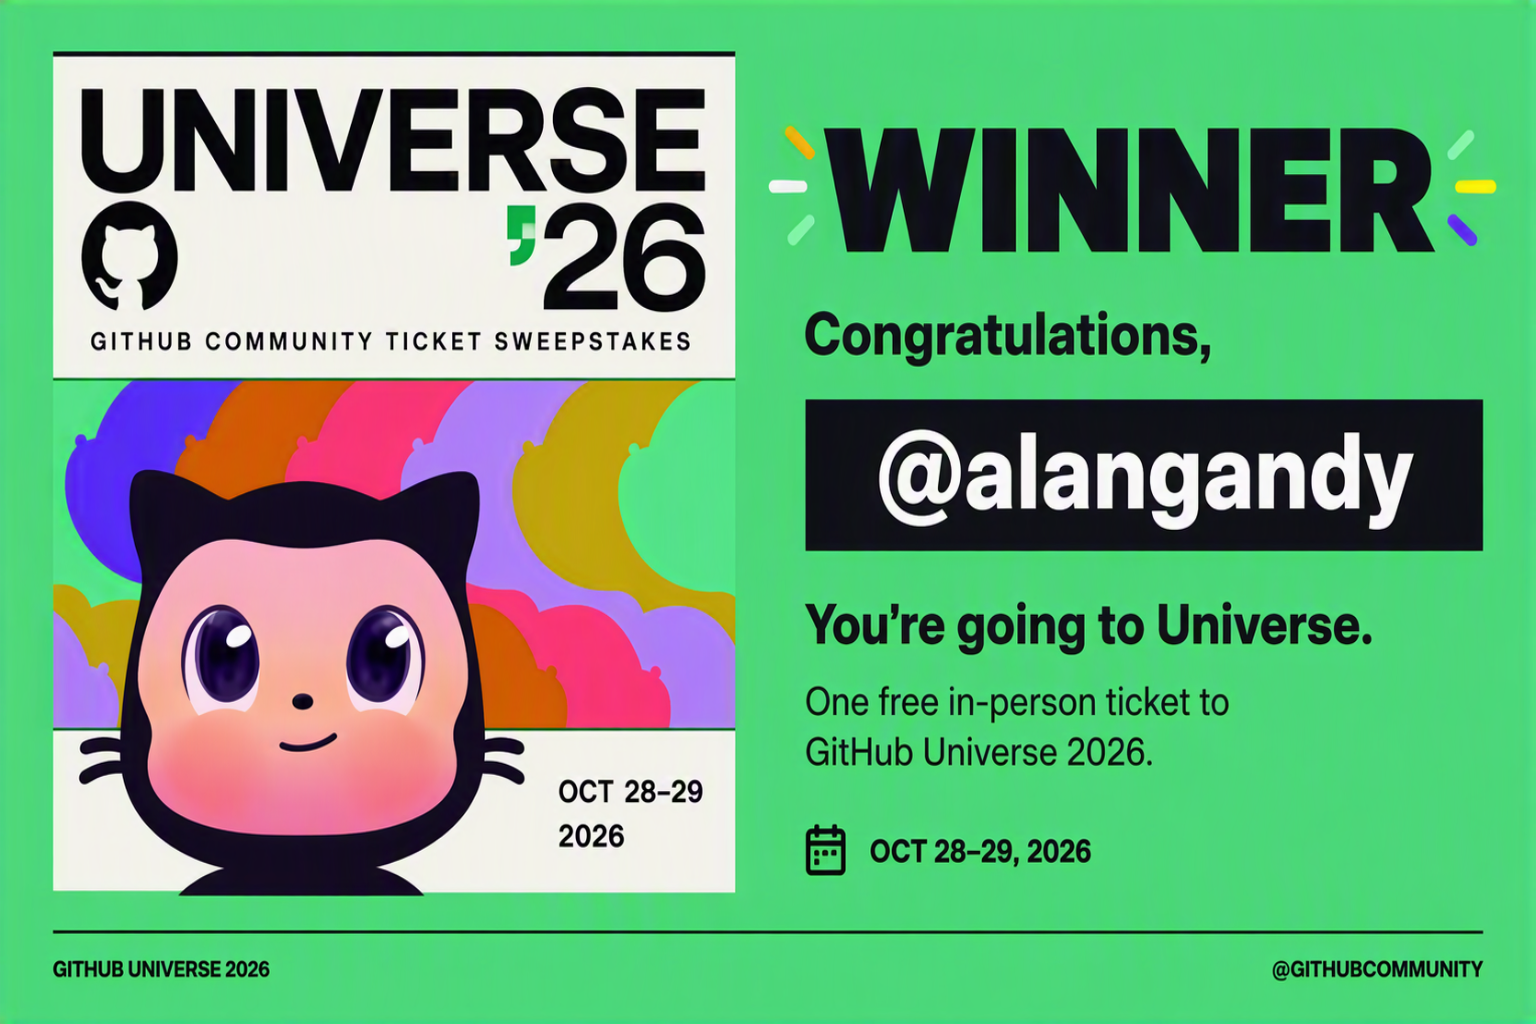
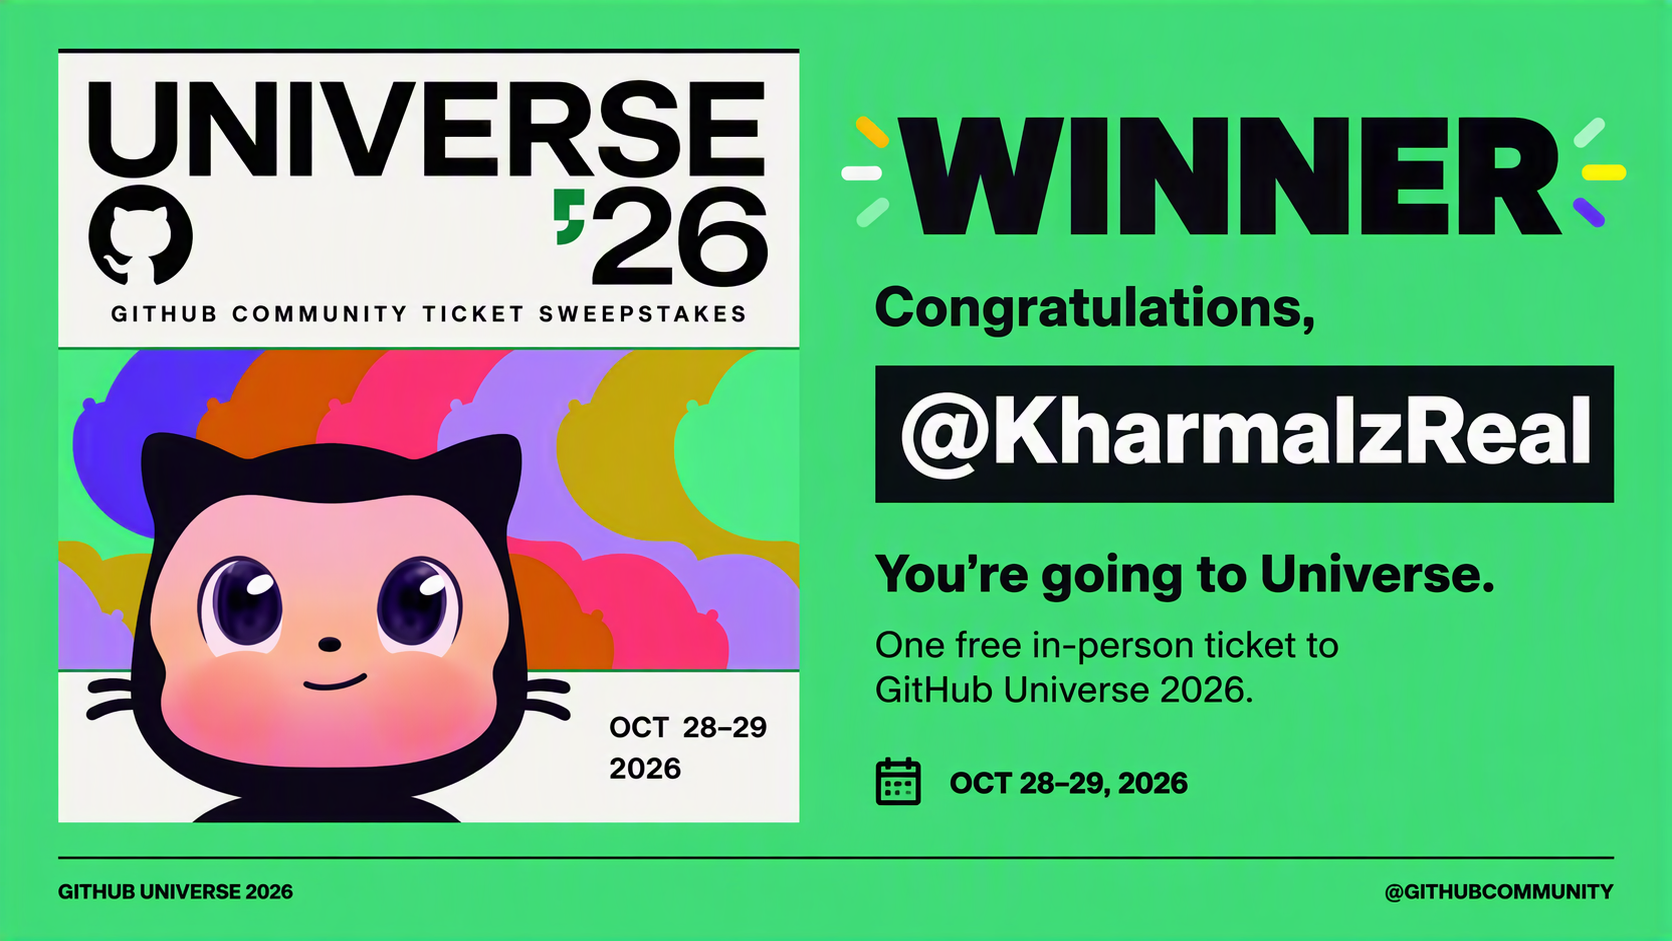
Update Universe sweepstakes winner announcement

diff --git a/README.md b/README.md
@@ -119,7 +119,7 @@ Send an email to angriff@microsoft.com with the subject line “GitHub Universe 
 
 ## Winner Selection
 
-![Congratulations @alangandy, winner of a free in-person ticket to GitHub Universe 2026](assets/universe-winner.png)
+![Congratulations @KharmaIzReal, winner of a free in-person ticket to GitHub Universe 2026](assets/universe-winner.png)
 
 ## Register for a free virtual entry
 
